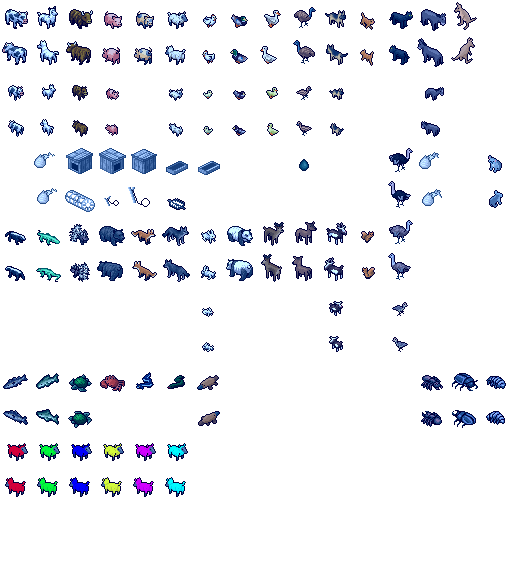
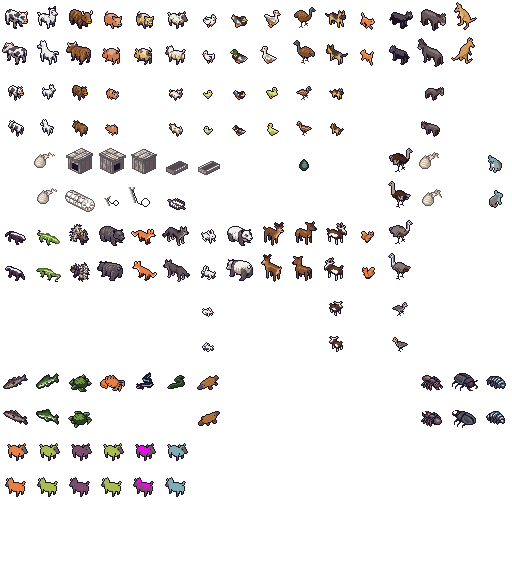
AI texture pack v0: startup-load + dead code cleanup
The shipped v0 baseline of the texture pack feature. Single hardcoded
alt path (content/tilesheet_ai/) toggled by a config flag. Per-file
fallback: missing files in the alt pack inherit from default. Restart
required to apply — runtime swap is unsafe (sprite cache, GL upload,
and SpriteFactory mutex are all owned by the game thread).

What ships:

- SpriteFactory::init() reads useAltTextures from config and tries
  content/tilesheet_ai/<file> first per tilesheet, falling back to
  content/tilesheet/<file>. This is the per-file inheritance pattern
  that texture pack v1 will generalize to a multi-pack chain.

- ImGuiBridge::cmdToggleTexturePack just persists the preference to
  config. The matching debug panel UI label was renamed from
  "Active: …" to "Preference: …" and gained a yellow "Restart the
  game to apply" warning so the player isn't surprised.

- 25 tilesheet PNGs in content/tilesheet_ai/ — the AI-generated alt
  pack itself (gnomes, terrain, furniture, animals, mobs, etc.).

What's removed (dead code from an earlier runtime-swap attempt):

- SpriteFactory::loadAlternateTextures() and toggleTexturePack() —
  the in-memory swap functions. The new approach is restart-based.
- m_origPixmapSources, m_altPixmapSources, m_useAltTextures,
  m_altTexturesLoaded — dead member fields supporting the runtime
  swap.
- usingAltTextures() getter — only consumed by the dead toggle path.
- Game::onToggleTexturePack() slot in game.cpp/h.
[…]

diff --git a/src/gfx/spritefactory.cpp b/src/gfx/spritefactory.cpp
@@ -103,7 +103,21 @@ bool SpriteFactory::init()
 		if ( !m_pixmapSources.contains( tilesheet ) )
 		{
 			QPixmap pm;
-			loaded = pm.load( Global::cfg->get( "dataPath" ).toString() + "/tilesheet/" + tilesheet );
+			const QString dataPath = Global::cfg->get( "dataPath" ).toString();
+			const bool useAlt      = Global::cfg->get( "useAltTextures" ).toBool();
+			loaded = false;
+			if ( useAlt )
+			{
+				loaded = pm.load( dataPath + "/tilesheet_ai/" + tilesheet );
+				if ( !loaded )
+				{
+					qDebug() << "SpriteFactory: AI texture pack missing" << tilesheet << "— falling back to default";
+				}
+			}
+			if ( !loaded )
+			{
+				loaded = pm.load( dataPath + "/tilesheet/" + tilesheet );
+			}
 			if ( !loaded )
 			{
 				loaded = pm.load( tilesheet );
@@ -1466,76 +1480,6 @@ void SpriteFactory::rebuildBaseSprites()
 		QString tilesheet = row.value( "Tilesheet" ).toString();
 		m_baseSprites.insert( row.value( "ID" ).toString(), extractPixmap( tilesheet, row ) );
 	}
-}
-
-void SpriteFactory::loadAlternateTextures( const QString& packPath )
-{
-	QMutexLocker ml( &m_mutex );
-	m_altPixmapSources.clear();
-
-	// Back up originals on first call
-	if ( m_origPixmapSources.isEmpty() )
-	{
-		m_origPixmapSources = m_pixmapSources;
-	}
-
-	QDir dir( packPath );
-	if ( !dir.exists() )
-	{
-		qDebug() << "Texture pack path does not exist:" << packPath;
-		return;
-	}
-
-	// Load alternate PNGs, falling back to originals for missing sheets
-	for ( auto it = m_origPixmapSources.begin(); it != m_origPixmapSources.end(); ++it )
-	{
-		QString filename = it.key();
-		QString altPath = dir.filePath( filename );
-		QPixmap pm;
-		if ( pm.load( altPath ) )
-		{
-			m_altPixmapSources.insert( filename, pm );
-			qDebug() << "Texture pack: loaded" << filename;
-		}
-		else
-		{
-			m_altPixmapSources.insert( filename, it.value() );
-		}
-	}
-	m_altTexturesLoaded = true;
-	qDebug() << "Texture pack loaded from" << packPath;
-}
-
-void SpriteFactory::toggleTexturePack()
-{
-	QMutexLocker ml( &m_mutex );
-
-	if ( !m_altTexturesLoaded )
-	{
-		// Try default location
-		loadAlternateTextures( Global::cfg->get( "dataPath" ).toString() + "/tilesheet_ai" );
-		if ( !m_altTexturesLoaded )
-			return;
-	}
-
-	m_useAltTextures = !m_useAltTextures;
-
-	if ( m_useAltTextures )
-	{
-		m_pixmapSources = m_altPixmapSources;
-	}
-	else
-	{
-		m_pixmapSources = m_origPixmapSources;
-	}
-
-	// Rebuild all base sprites from the new tilesheet sources
-	rebuildBaseSprites();
-
-	// Recomposite all sprites and trigger GPU upload
-	forceUpdate();
-
-	qDebug() << "Texture pack:" << ( m_useAltTextures ? "AI" : "Original" );
 }
 
 QPixmap SpriteFactory::getTintedBaseSprite( QString baseSprite, QString material )

diff --git a/src/gui/imguibridge.cpp b/src/gui/imguibridge.cpp
@@ -1,6 +1,7 @@
 #include "imguibridge.h"
 
 #include "../base/global.h"
+#include "../base/config.h"
 #include "eventconnector.h"
 #include "../game/game.h"
 #include "../game/gnomemanager.h"
@@ -10,6 +11,7 @@
 ImGuiBridge::ImGuiBridge( QObject* parent )
 	: QObject( parent )
 {
+	useAltTextures = Global::cfg->get( "useAltTextures" ).toBool();
 	auto* ec = Global::eventConnector;
 
 	// =========================================================================
@@ -747,10 +749,12 @@ void ImGuiBridge::cmdSetWindowSize( int w, int h ) { Global::eventConnector->agg
 // Texture pack
 void ImGuiBridge::cmdToggleTexturePack()
 {
-	auto* ec = Global::eventConnector;
-	if ( !ec || !ec->game() ) return;
-	ec->game()->sf()->toggleTexturePack();
-	useAltTextures = ec->game()->sf()->usingAltTextures();
+	// Texture pack swap is applied at SpriteFactory::init() time, so we just
+	// toggle the persisted preference here. A restart is required for the
+	// change to take effect — runtime swap is unsafe (sprite cache, GL upload,
+	// and SpriteFactory mutex are all owned by the game thread).
+	useAltTextures = !useAltTextures;
+	Global::cfg->set( "useAltTextures", useAltTextures );
 }
 
 // Settings commands

diff --git a/src/gfx/spritefactory.h b/src/gfx/spritefactory.h
@@ -96,10 +96,6 @@ private:
 
 	// base sprites and sources for creation
 	QHash<QString, QPixmap> m_pixmapSources;
-	QHash<QString, QPixmap> m_origPixmapSources; // backup of original tilesheets
-	QHash<QString, QPixmap> m_altPixmapSources;   // alternate texture pack
-	bool m_useAltTextures = false;
-	bool m_altTexturesLoaded = false;
 	void rebuildBaseSprites();
 
 	QMap<QString, QPixmap> m_baseSprites;
@@ -187,10 +183,6 @@ public:
 	bool creatureTextureAdded();
 
 	void forceUpdate();
-
-	void loadAlternateTextures( const QString& packPath );
-	void toggleTexturePack();
-	bool usingAltTextures() const { return m_useAltTextures; }
 
 	void addPixmapSource( QString name, QString path );
 

diff --git a/src/gui/ui/ui_sidepanels.cpp b/src/gui/ui/ui_sidepanels.cpp
@@ -3309,7 +3309,9 @@ void drawDebugPanel( ImGuiBridge& bridge )
 				"Place alternate PNGs in content/tilesheet_ai/." );
 
 			ImGui::Spacing();
-			ImGui::Text( "Active: %s", bridge.useAltTextures ? "AI Pack" : "Original" );
+			ImGui::Text( "Preference: %s", bridge.useAltTextures ? "AI Pack" : "Original" );
+			ImGui::TextColored( ImVec4( 1.0f, 0.85f, 0.3f, 1.0f ),
+				ICON_FA_TRIANGLE_EXCLAMATION " Restart the game to apply." );
 
 			ImGui::EndTabItem();
 		}
